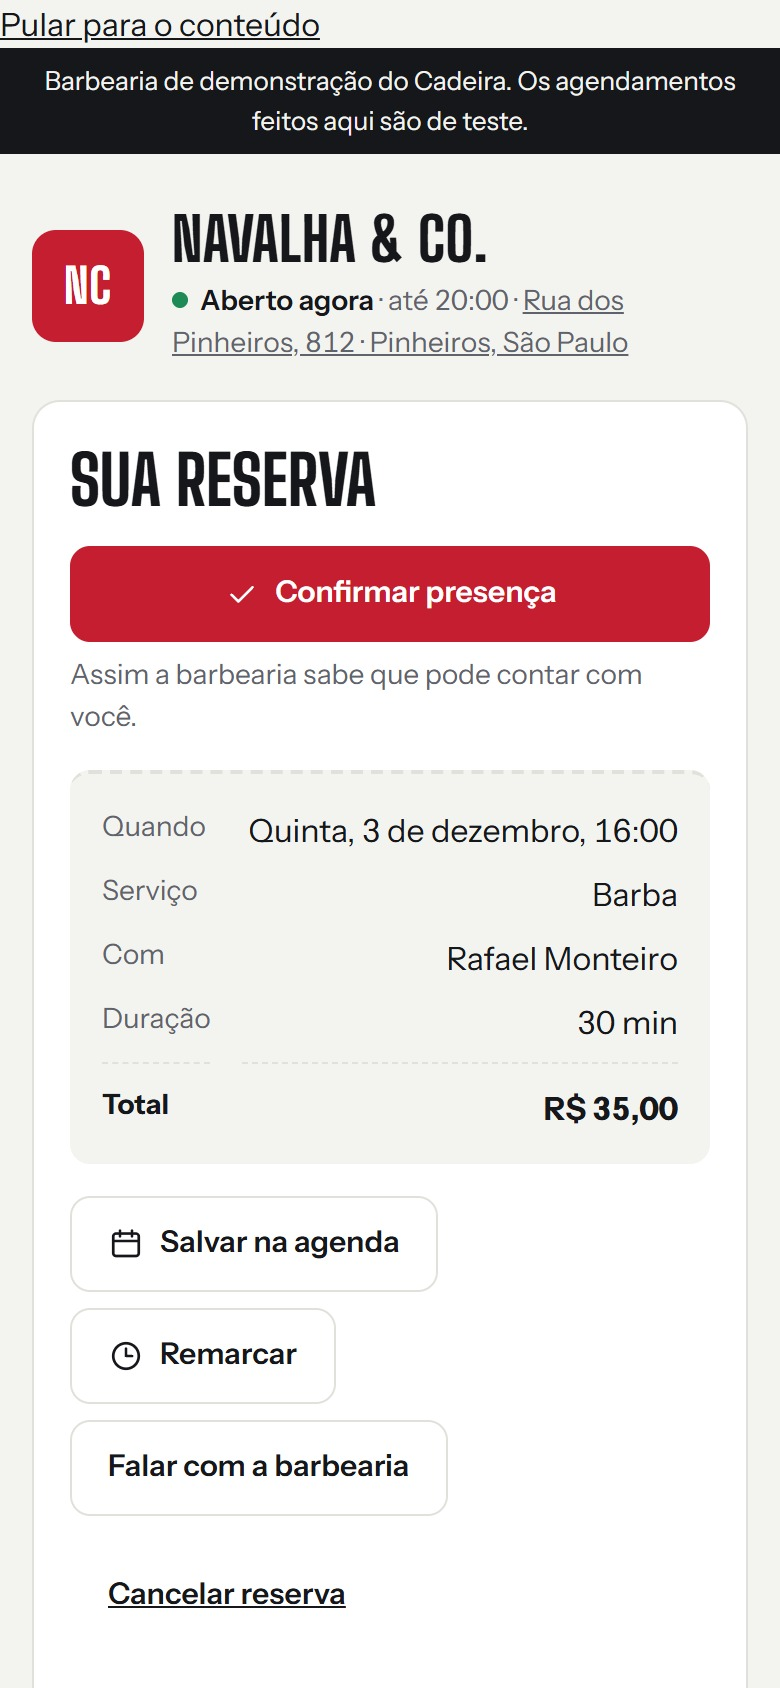
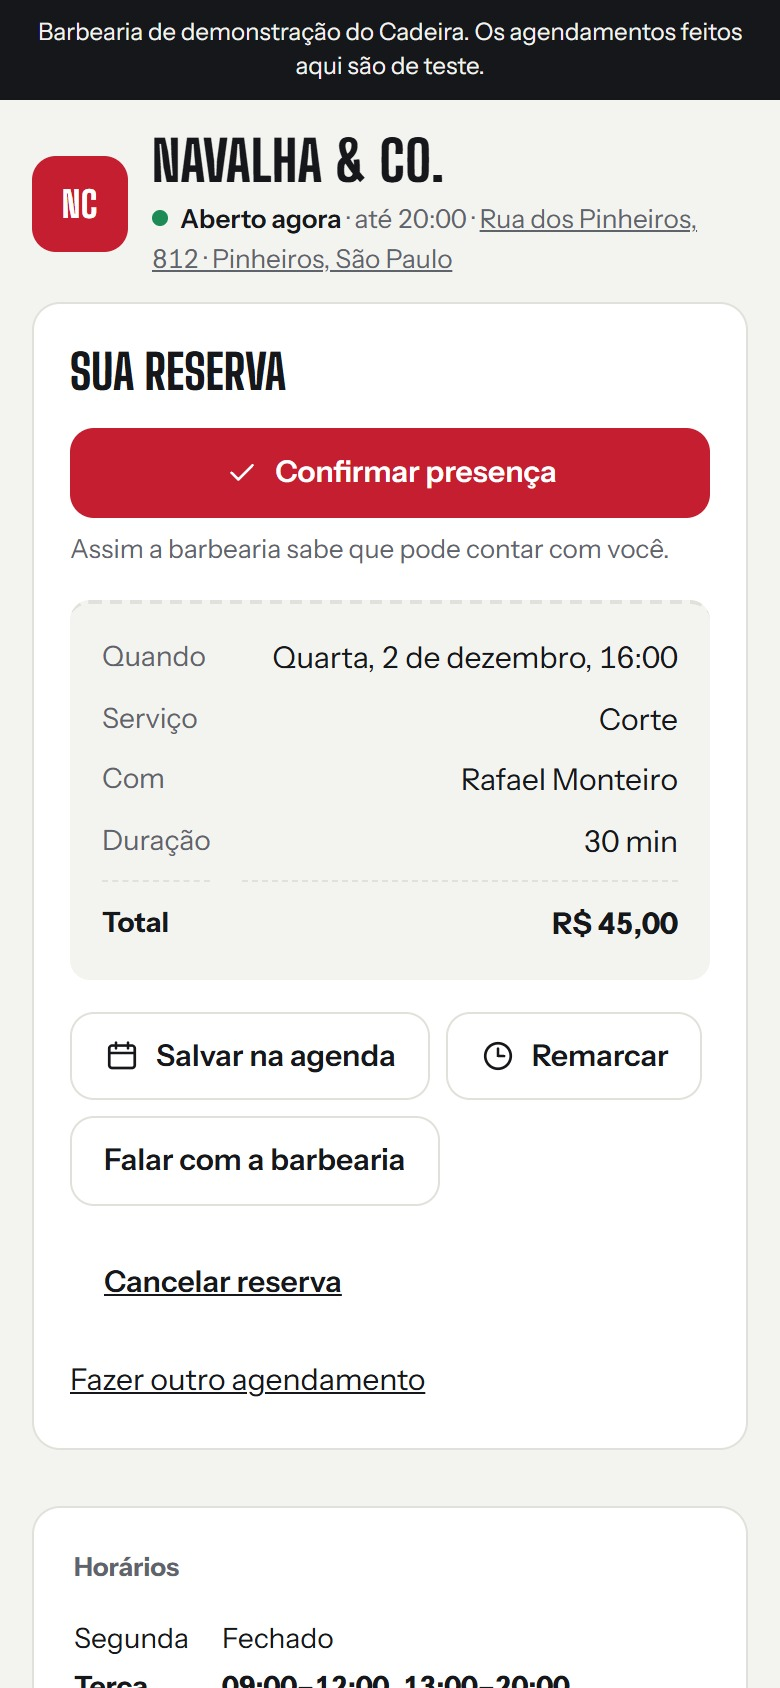
Recortes sem o atalho visivel no celular de exemplo, e cadastro aceita endereco com maiuscula ou .com.br.

diff --git a/scripts/recortes.ts b/scripts/recortes.ts
@@ -13,6 +13,16 @@ async function shot(o: { name: string; url: string; w: number; h: number; scale?
   const page = await ctx.newPage();
   await page.goto(BASE + o.url, { waitUntil: 'load' });
   await page.evaluate(() => document.fonts.ready);
+  // o atalho "Pular para o conteúdo" é o primeiro foco possível; some na foto e não deve aparecer no recorte
+  await page.evaluate(() => {
+    const a = document.activeElement as HTMLElement | null;
+    if (a && typeof a.blur === 'function') a.blur();
+    document.querySelectorAll<HTMLElement>('.skip').forEach((el) => {
+      el.blur();
+      el.style.setProperty('display', 'none', 'important');
+    });
+  });
+  await page.waitForTimeout(120);
   const path = join(OUT, `demo-${o.name}.jpg`);
   if (o.sel) await page.locator(o.sel).first().screenshot({ path, type: 'jpeg', quality: 92 });
   else await page.screenshot({ path, type: 'jpeg', quality: 92, clip: o.clip });
@@ -20,9 +30,9 @@ async function shot(o: { name: string; url: string; w: number; h: number; scale?
   console.log('ok', o.name);
 }
 
-const grab = async (url: string, re: RegExp) => { const ctx = await browser.newContext(); const p = await ctx.newPage(); await p.goto(BASE + url); const m = re.exec(await p.content()); await ctx.close(); return m?.[1]; };
+const grab = async (url: string, re: RegExp) => { const ctx = await browser.newContext(); const p = await ctx.newPage(); await p.goto(BASE + url, { waitUntil: 'load' }); const m = re.exec(await p.content()); await ctx.close(); return m?.[1]; };
 const svc = await grab('/b/navalha', /name="s" value="([0-9a-f-]{36})"/);
-const link = await grab('/app/s/navalha/lembretes?date=2026-12-03', /\/reserva\/([0-9a-f-]{36})/);
+const link = await grab('/app/s/navalha/lembretes?date=2026-12-02', /\/reserva\/([0-9a-f-]{36})/);
 
 // painel no balcão: próximo cliente + resumo + linha do dia
 await shot({ name: 'hoje', url: '/app/s/navalha', w: 1280, h: 900, clip: { x: 232, y: 0, width: 1048, height: 626 } });
@@ -35,9 +45,9 @@ await shot({ name: 'comissao', url: '/app/s/navalha/financeiro', w: 1280, h: 110
 // cliente escolhendo horário no celular
 await shot({ name: 'cliente-horario', url: `/b/navalha?s=${svc}&p=any&d=2026-12-02`, w: 390, h: 844, scale: 2, mobile: true });
 // cliente confirmando ou remarcando (link do lembrete; o servidor de telas mostra esse link ao subir)
-if (process.env.CLIENT_LINK) await shot({ name: 'cliente-link', url: process.env.CLIENT_LINK.replace(/\?.*$/, ''), w: 390, h: 844, scale: 2, mobile: true });
+const clientUrl = (process.env.CLIENT_LINK || (link ? `/b/navalha/reserva/${link}` : '')).replace(/\?.*$/, '');
+if (clientUrl) await shot({ name: 'cliente-link', url: clientUrl, w: 390, h: 844, scale: 2, mobile: true });
 // o mesmo painel no celular do barbeiro (versão do site para telas pequenas)
 await shot({ name: 'hoje-celular', url: '/app/s/navalha', w: 390, h: 844, scale: 2, mobile: true });
 await shot({ name: 'lembretes-celular', url: '/app/s/navalha/lembretes?date=2026-12-02', w: 390, h: 844, scale: 2, mobile: true });
-void link;
 await browser.close();

diff --git a/test/slug.test.ts b/test/slug.test.ts
@@ -1,0 +1,63 @@
+// Endereço da página no cadastro: aceita maiúscula, acento, site com .com.br, etc.
+import { describe, test, before, after } from 'node:test';
+import assert from 'node:assert/strict';
+import { normalizeSlug } from '../src/lib/core.ts';
+import { signup } from '../src/domain/accounts.ts';
+import { openDb, type Db } from '../src/db/db.ts';
+import { createApp } from '../src/app.ts';
+import { http, shopRow } from './helpers.ts';
+
+describe('endereço da página', () => {
+  test('normaliza domínio, acentos e pontuação', () => {
+    assert.equal(normalizeSlug('Teste1.com.br'), 'teste1');
+    assert.equal(normalizeSlug('https://www.Navalha.com.br/'), 'navalha');
+    assert.equal(normalizeSlug('HTTP://WWW.FOO.COM.BR/agenda?x=1'), 'foo');
+    assert.equal(normalizeSlug('Barbearia do João'), 'barbearia-do-joao');
+    assert.equal(normalizeSlug('Studio & Corte'), 'studio-e-corte');
+    assert.equal(normalizeSlug('teste_1.com'), 'teste-1');
+    assert.equal(normalizeSlug('Foo...Bar'), 'foo-bar');
+    assert.equal(normalizeSlug('  Minha Barbearia  '), 'minha-barbearia');
+    assert.equal(normalizeSlug('AB'), 'ab');
+    assert.equal(normalizeSlug('ab.com'), 'ab');
+    assert.equal(normalizeSlug('  '), '');
+    assert.equal(normalizeSlug('alfa'), 'alfa');
+  });
+
+  let db: Db;
+  before(async () => { db = await openDb(); });
+  after(() => db.close());
+
+  test('cadastro aceita Teste1.com.br e grava teste1', async () => {
+    const { shop } = await signup(db, {
+      name: 'Dona Teste',
+      email: 'teste1combr@t.com',
+      password: 'senha-forte-123',
+      shopName: 'Barbearia Teste',
+      slug: 'Teste1.com.br',
+    });
+    assert.equal(shop.slug, 'teste1');
+    assert.equal((await shopRow(db, 'teste1')).name, 'Barbearia Teste');
+  });
+
+  test('só recusa se ainda ficar com menos de 3 caracteres ou se o endereço já existir', async () => {
+    await assert.rejects(
+      () => signup(db, { name: 'Outro', email: 'abcurto@t.com', password: 'senha-forte-123', shopName: 'Loja AB', slug: 'AB.com' }),
+      (e: any) => e.status === 422 && /pelo menos 3/.test(e.message),
+    );
+    await assert.rejects(
+      () => signup(db, { name: 'Outro', email: 'teste1b@t.com', password: 'senha-forte-123', shopName: 'Outra', slug: 'https://www.Teste1.com.br' }),
+      (e: any) => e.status === 409 && e.code === 'slug_taken',
+    );
+  });
+
+  test('o campo do cadastro pede para o celular não corrigir e não exige o formato antigo', async () => {
+    const H = http(createApp(db, { billing: null }));
+    const page = await H.req('/criar-conta');
+    assert.equal(page.status, 200);
+    assert.match(page.text, /autocapitalize="off"/);
+    assert.match(page.text, /autocorrect="off"/);
+    assert.match(page.text, /spellcheck="false"/);
+    assert.doesNotMatch(page.text, /name="slug"[^>]*pattern=/);
+    assert.match(page.text, /Pode escrever com maiúscula ou colar o site/);
+  });
+});

diff --git a/src/lib/core.ts b/src/lib/core.ts
@@ -71,7 +71,22 @@ export const parseHHMM = (s: string) => { const m = /^(\d{1,2}):(\d{2})$/.exec(s
 export const brl = (cents: number) => (cents / 100).toLocaleString('pt-BR', { style: 'currency', currency: 'BRL' });
 export const digits = (s: unknown) => String(s ?? '').replace(/\D/g, '');
 export function fmtPhone(p: string) { p = digits(p); if (p.length === 11) return `(${p.slice(0, 2)}) ${p.slice(2, 7)}-${p.slice(7)}`; if (p.length === 10) return `(${p.slice(0, 2)}) ${p.slice(2, 6)}-${p.slice(6)}`; return p; }
-export function slugify(s: string) { return s.normalize('NFD').replace(/[̀-ͯ]/g, '').toLowerCase().replace(/&/g, 'e').replace(/[^a-z0-9]+/g, '-').replace(/^-+|-+$/g, '').slice(0, 40); }
+/** Transforma o que a pessoa digitou no endereço da página (minúsculas, sem acento, sem .com.br, etc.). */
+export function normalizeSlug(s: string) {
+  let t = String(s ?? '').trim().toLowerCase();
+  t = t.replace(/^[a-z][a-z0-9+.-]*:\/\//, '');
+  t = t.replace(/^www\./, '');
+  t = t.replace(/[/?#].*$/, '');
+  t = t.replace(/:\d+$/, '');
+  t = t.replace(/\.+$/, '');
+  t = t.replace(/\.(com\.br|net\.br|org\.br|com|net|org|app|dev|io|co|info|biz|br)$/i, '');
+  t = t.normalize('NFD').replace(/\p{M}/gu, '');
+  t = t.replace(/&/g, 'e');
+  t = t.replace(/[\s._]+/g, '-').replace(/[^a-z0-9-]+/g, '-').replace(/-+/g, '-').replace(/^-+|-+$/g, '');
+  if (t.length > 40) t = t.slice(0, 40).replace(/-+$/g, '');
+  return t;
+}
+export const slugify = (s: string) => normalizeSlug(s);
 
 /* ---------- limite de requisições (memória; trocar por Redis com várias instâncias) ---------- */
 const buckets = new Map<string, { n: number; reset: number }>();

diff --git a/src/public/forms.js b/src/public/forms.js
@@ -12,4 +12,30 @@
   });
   // voltar pelo navegador não deixa o formulário travado
   window.addEventListener('pageshow', () => document.querySelectorAll('form[data-sent]').forEach((f) => { delete f.dataset.sent; f.querySelectorAll('[aria-busy]').forEach((b) => b.removeAttribute('aria-busy')); }));
+
+  // Endereço da página: vai normalizando o que a pessoa digita (maiúscula, acento, .com.br, etc.).
+  const slugInput = document.querySelector('#sl[name="slug"]');
+  if (slugInput instanceof HTMLInputElement) {
+    const normalizeSlug = (v) => {
+      let t = String(v ?? '').trim().toLowerCase();
+      t = t.replace(/^[a-z][a-z0-9+.-]*:\/\//, '');
+      t = t.replace(/^www\./, '');
+      t = t.replace(/[/?#].*$/, '');
+      t = t.replace(/:\d+$/, '');
+      t = t.replace(/\.+$/, '');
+      t = t.replace(/\.(com\.br|net\.br|org\.br|com|net|org|app|dev|io|co|info|biz|br)$/i, '');
+      t = t.normalize('NFD').replace(/\p{M}/gu, '');
+      t = t.replace(/&/g, 'e');
+      t = t.replace(/[\s._]+/g, '-').replace(/[^a-z0-9-]+/g, '-').replace(/-+/g, '-').replace(/^-+|-+$/g, '');
+      if (t.length > 40) t = t.slice(0, 40).replace(/-+$/g, '');
+      return t;
+    };
+    const apply = () => {
+      const next = normalizeSlug(slugInput.value);
+      if (slugInput.value !== next) slugInput.value = next;
+    };
+    slugInput.addEventListener('input', apply);
+    slugInput.addEventListener('blur', apply);
+    slugInput.form?.addEventListener('submit', apply);
+  }
 })();

diff --git a/src/web/site.ts b/src/web/site.ts
@@ -302,7 +302,7 @@ export function signupPage(o: { v?: Record<string, string>; errors?: Record<stri
     </fieldset>
     <fieldset><legend>A barbearia</legend>
       <div class="field"><label for="sn">Nome da barbearia</label><input class="input" id="sn" name="shopName" required value="${v.shopName ?? ''}" ${inv('shopName')}>${err('shopName')}</div>
-      <div class="field"><label for="sl">Endereço da sua página</label><div class="slug"><span>${o.host}/b/</span><input class="input" id="sl" name="slug" pattern="[a-z0-9][a-z0-9-]{1,38}[a-z0-9]" value="${v.slug ?? ''}" placeholder="sua-barbearia" ${inv('slug')}></div><small class="hint">Só letras minúsculas, números e hífen. Se deixar em branco, usamos o nome.</small>${err('slug')}</div>
+      <div class="field"><label for="sl">Endereço da sua página</label><div class="slug"><span>${o.host}/b/</span><input class="input" id="sl" name="slug" value="${v.slug ?? ''}" placeholder="sua-barbearia" autocapitalize="off" autocorrect="off" spellcheck="false" ${inv('slug')}></div><small class="hint">Pode escrever com maiúscula ou colar o site, a gente ajusta. Se deixar em branco, usamos o nome.</small>${err('slug')}</div>
     </fieldset>
     <button class="btn primary wide">Criar barbearia</button>
     <p class="hint terms">Ao criar a conta você concorda com os <a href="/termos" target="_blank">Termos de uso</a> e a <a href="/privacidade" target="_blank">Política de privacidade</a>. Não pedimos cartão para testar.</p>

diff --git a/src/domain/accounts.ts b/src/domain/accounts.ts
@@ -1,6 +1,6 @@
 import { z } from 'zod';
 import type { Db, Q } from '../db/db.ts';
-import { AppError, RESERVED_SLUGS, clock, forbidden, hashPassword, invalid, newToken, notFound, sha256, verifyPassword, rateLimit } from '../lib/core.ts';
+import { AppError, RESERVED_SLUGS, clock, forbidden, hashPassword, invalid, newToken, notFound, sha256, verifyPassword, rateLimit, normalizeSlug } from '../lib/core.ts';
 
 /* ---------- papéis e permissões (verificados sempre no servidor) ---------- */
 export type Role = 'owner' | 'manager' | 'reception' | 'barber';
@@ -40,7 +40,7 @@ export const signupSchema = z.object({
   email: z.string().trim().toLowerCase().email('E-mail inválido.').max(120),
   password: z.string().min(8, 'A senha precisa de pelo menos 8 caracteres.').max(200),
   shopName: z.string().trim().min(2, 'Informe o nome da barbearia.').max(60),
-  slug: z.string().trim().toLowerCase().regex(/^[a-z0-9][a-z0-9-]{1,38}[a-z0-9]$/, 'Use de 3 a 40 letras minúsculas, números ou hífen.'),
+  slug: z.string().transform(normalizeSlug).pipe(z.string().min(3, 'Use pelo menos 3 letras ou números.')),
 });
 export type SignupInput = z.infer<typeof signupSchema>;
 

diff --git a/src/app.ts b/src/app.ts
@@ -176,7 +176,7 @@ export function createApp(db: Db, opts: AppOptions = {}) {
   });
   app.post('/criar-conta', async (c) => {
     const f = await form(c);
-    if (!f.slug && f.shopName) f.slug = slugify(f.shopName);
+    f.slug = slugify(String(f.slug || '')) || slugify(String(f.shopName || ''));
     try {
       rateLimit(`signup:${ip(c)}`, 5, 60 * 60_000);
       const { user, shop } = await signup(db, f);
